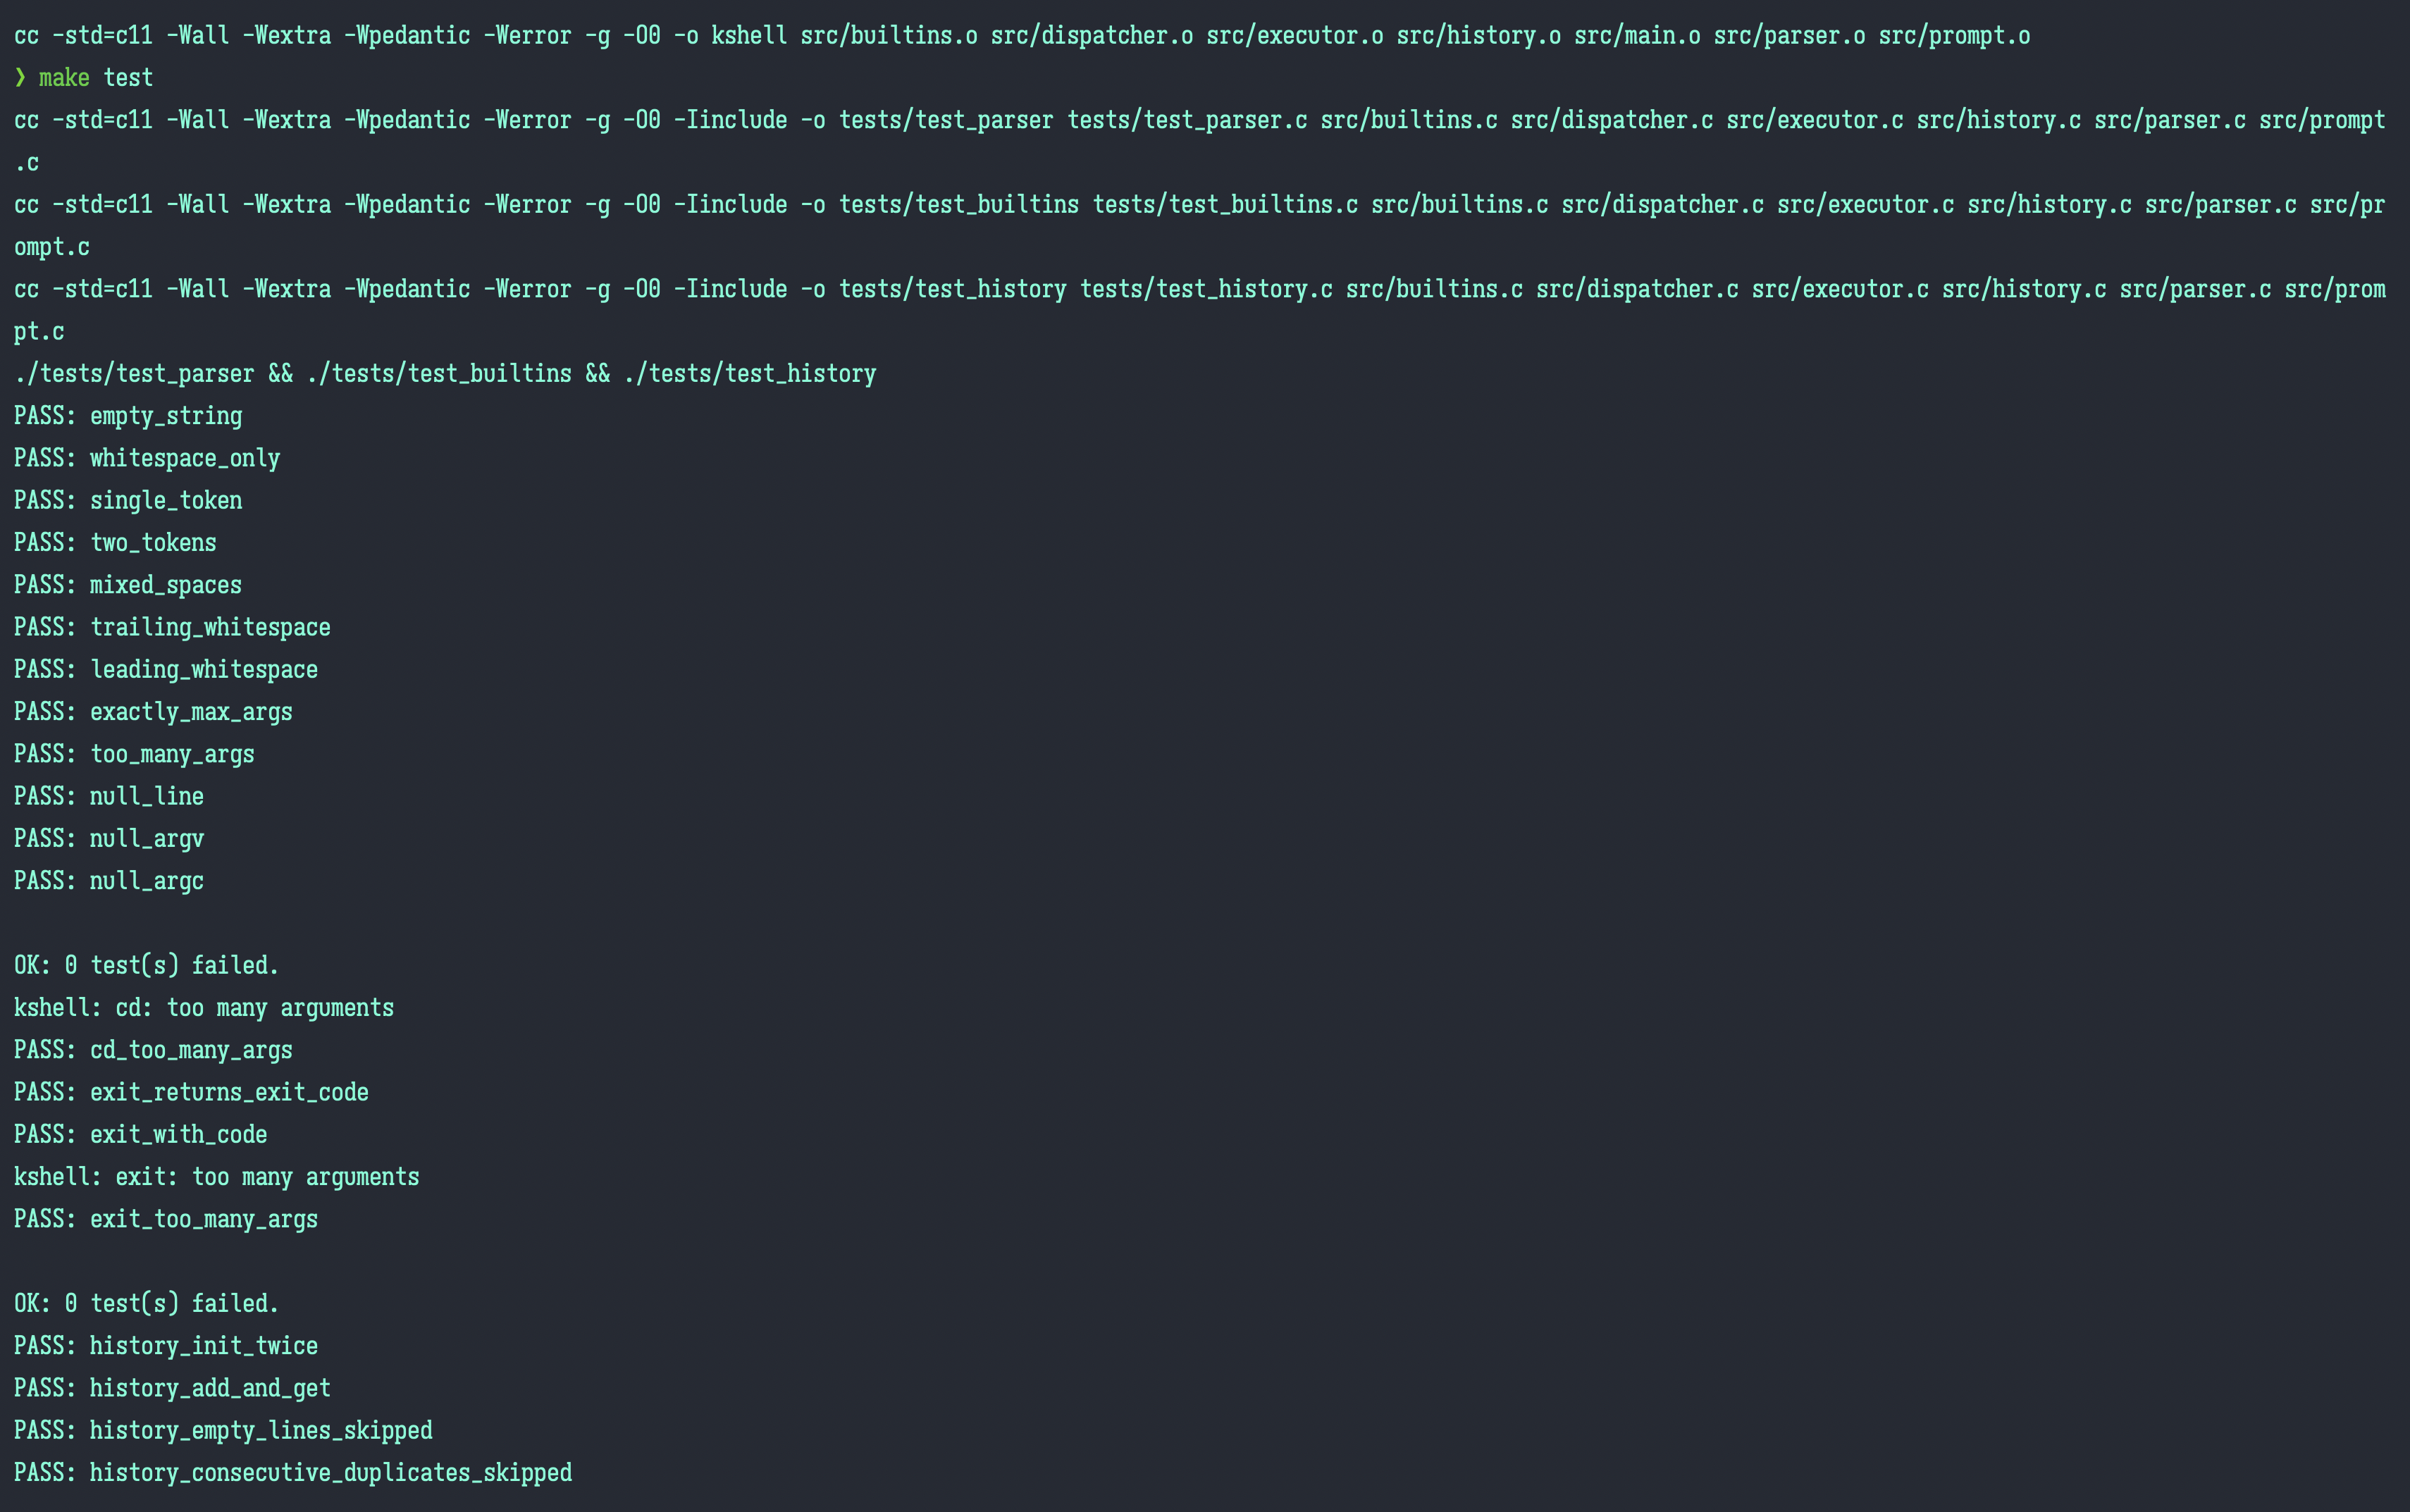
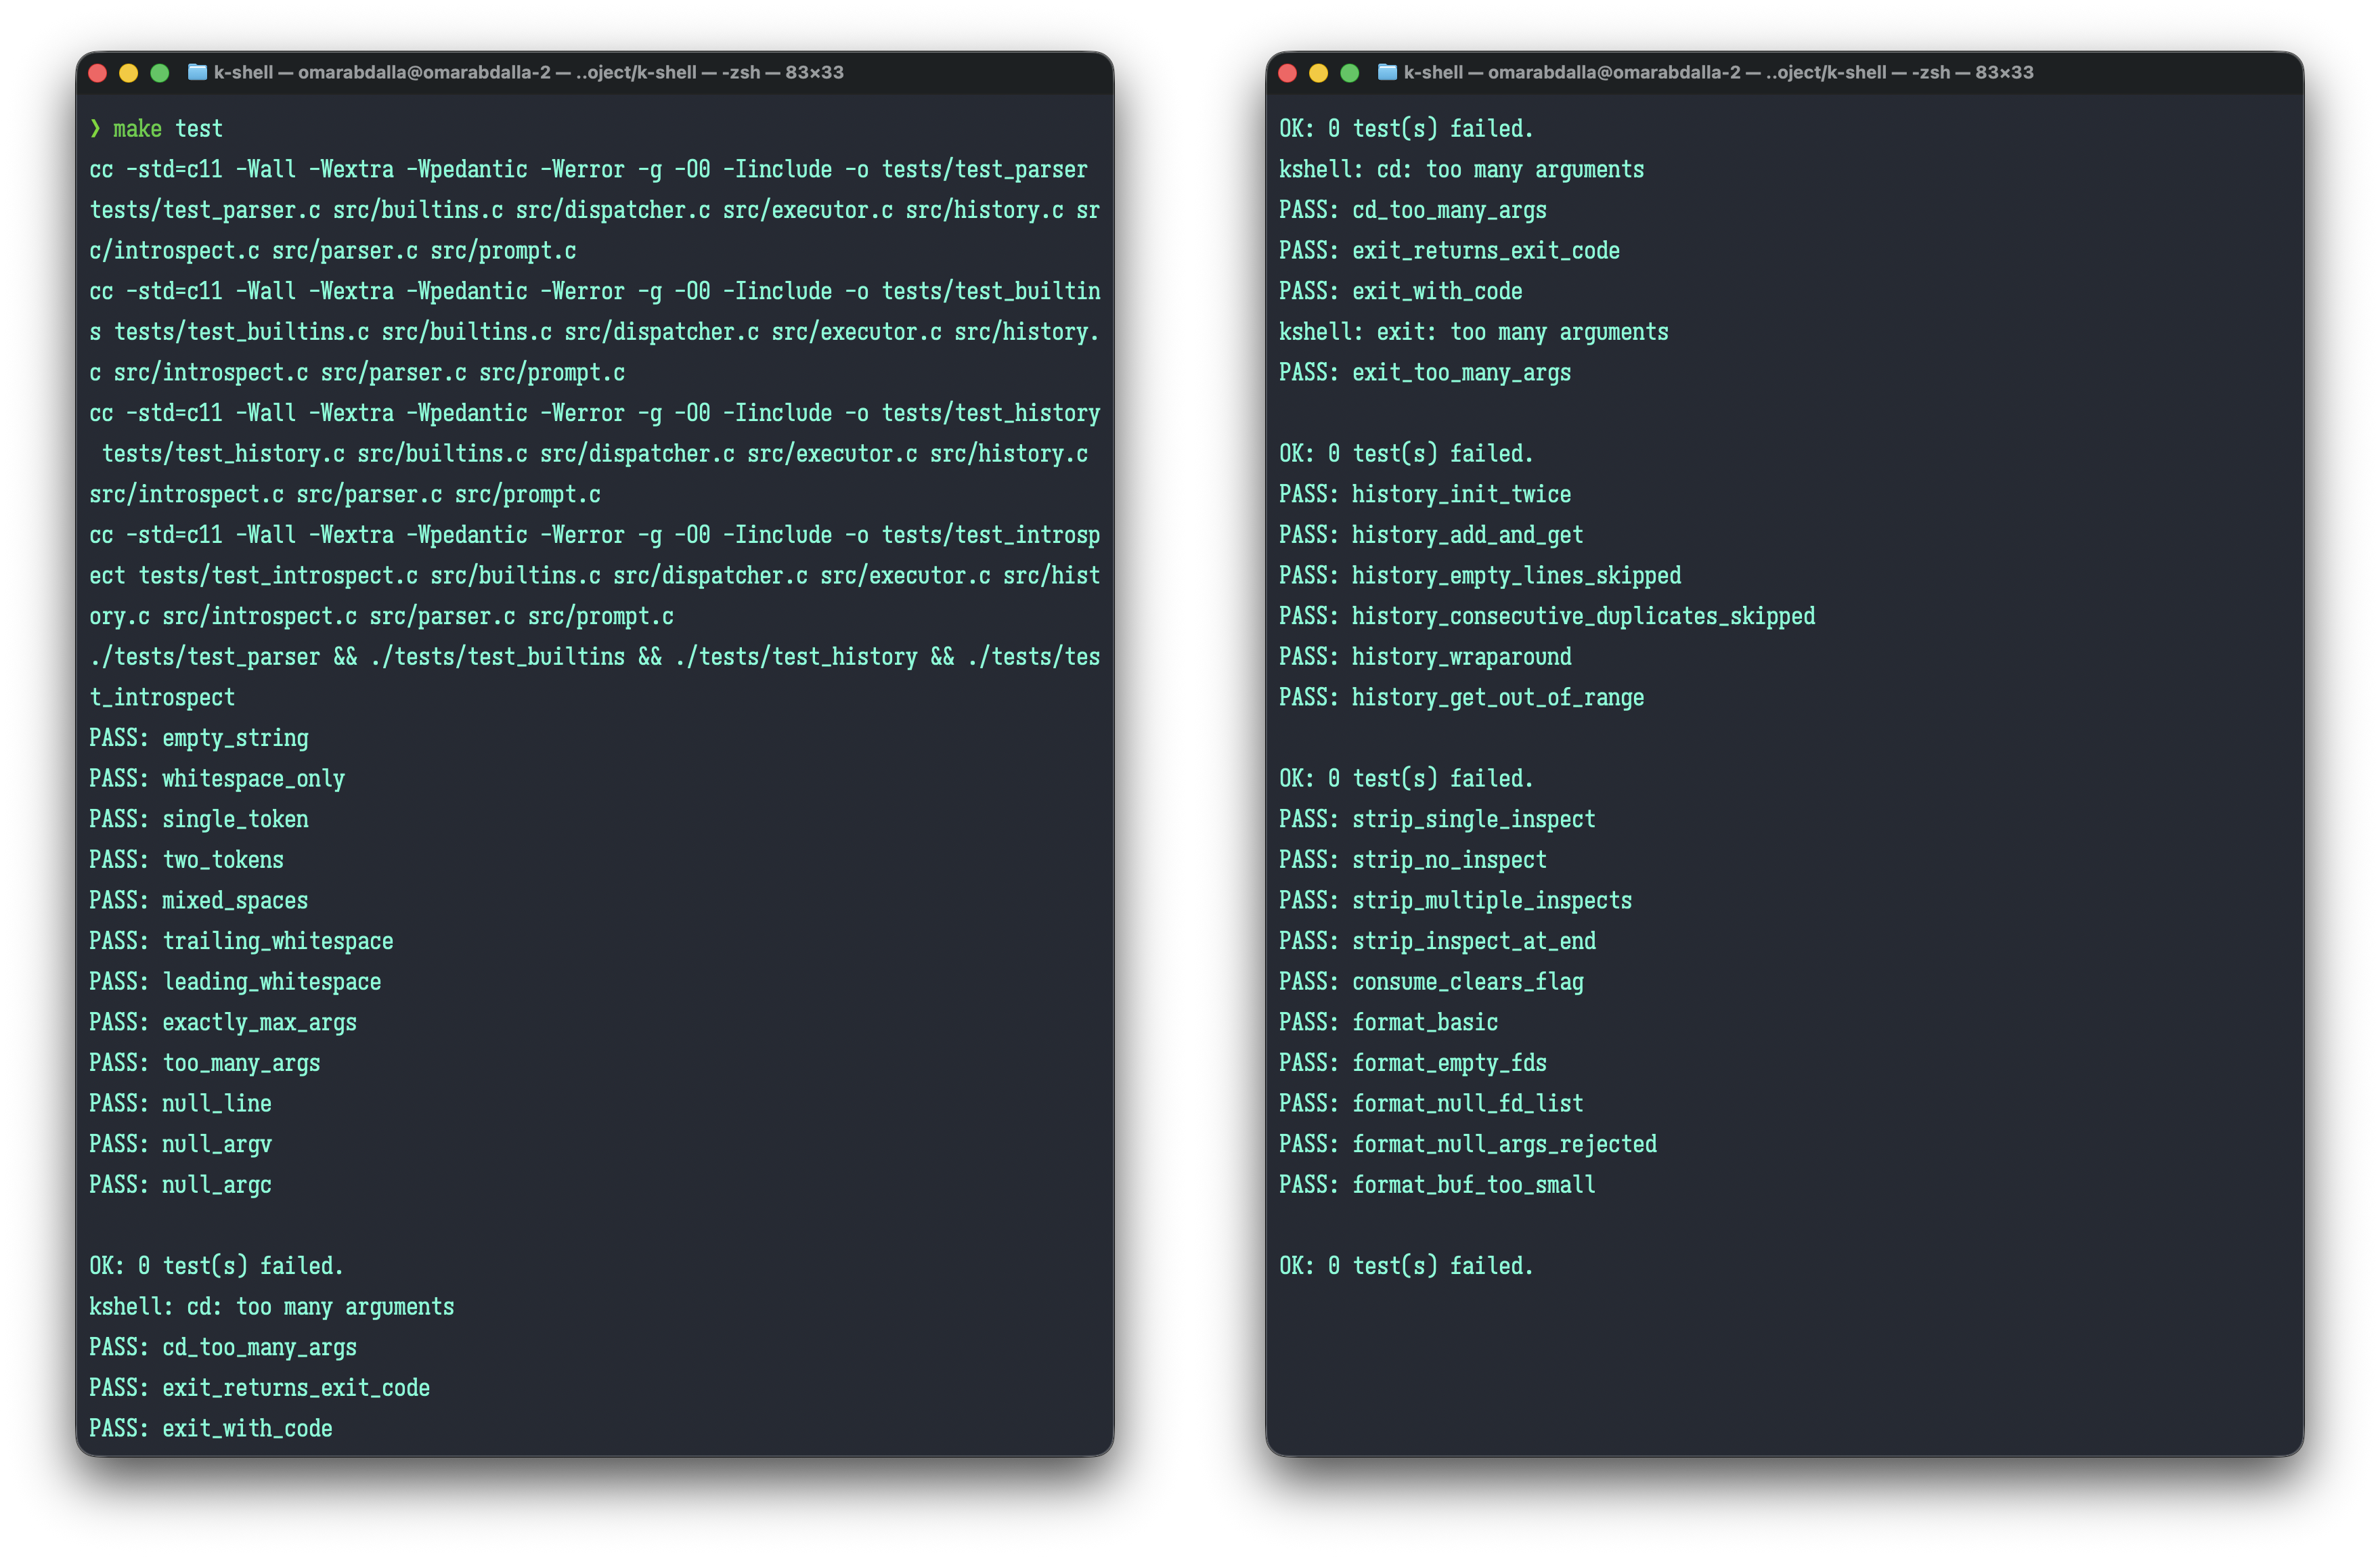
docs(report): factual corrections + recaptured Phase 3 screenshots
- Update LoC numbers to match measured values
- Fix 14 test names in §5.1 to match make test output
- Update clang version to 21.0.0 across toolchain table, §5.2, and §10
- Soften §4.3 novelty claims; remove redundant 'genuinely' hedges
- Disambiguate Phase 1 proposal references
- Recapture build and test screenshots to show Phase 3 sources (introspect)

Changed region(s): [[0.0, 0.0, 1.0, 1.0], [0.8058, 0.1873, 0.9298, 0.2185]]

diff --git a/report/final_report.md b/report/final_report.md
@@ -45,17 +45,17 @@ mainfontoptions: "Numbers=Lining"
 
 # Introduction
 
-K-Shell is a lightweight, POSIX-compliant Unix shell written in C11. It operates as a command-line interpreter between the user and the operating-system kernel: it reads a line of input, tokenizes it, routes the command to an appropriate handler (built-in or external executable), and repeats until the user exits. Beyond meeting every Phase 1 requirement (§1.1--1.4), the final delivery includes an *embedded OS-introspection mode* --- a `--inspect` modifier that turns every external command into a kernel-eye-view report on its own resource usage, file descriptors, and exit disposition. This is the feature that distinguishes K-Shell from a textbook fork/exec implementation, and is the focus of the novelty discussion in §4.3 and the performance analysis in §6.
+K-Shell is a lightweight, POSIX-compliant Unix shell written in C11. It operates as a command-line interpreter between the user and the operating-system kernel: it reads a line of input, tokenizes it, routes the command to an appropriate handler (built-in or external executable), and repeats until the user exits. Beyond meeting every requirement in the Phase 1 proposal §1.1--1.4, the final delivery includes an *embedded OS-introspection mode* --- a `--inspect` modifier that turns every external command into a kernel-eye-view report on its own resource usage, file descriptors, and exit disposition. This is the feature that distinguishes K-Shell from a textbook fork/exec implementation, and is the focus of the novelty discussion in §4.3 and the performance analysis in §6.
 
-The shell supports four built-in commands (`cd`, `exit`, `help`, `history`), external command execution via `fork`/`execvp`/`waitpid`, an in-memory ring-buffer command history, a dynamic prompt showing the current working directory, signal handling that survives Ctrl+C while terminating the foreground child, and the new `--inspect` introspection mode. The complete implementation is 1,170 lines of C11 across eight production source files, plus 367 lines of unit tests covering parser, built-ins, history, and introspection.
+The shell supports four built-in commands (`cd`, `exit`, `help`, `history`), external command execution via `fork`/`execvp`/`waitpid`, an in-memory ring-buffer command history, a dynamic prompt showing the current working directory, signal handling that survives Ctrl+C while terminating the foreground child, and the new `--inspect` introspection mode. The complete implementation is 619 lines of C11 across eight production source files plus 307 lines of public-API headers, with 574 lines of unit tests covering parser, built-ins, history, and introspection.
 
 # Problem Statement and Motivation
 
 A modern operating-systems curriculum spends most of its time on the *concepts* of process creation, scheduling, signal delivery, file descriptors, virtual memory, and IPC --- but a student rarely *touches* any of these directly. The shell is the one program where every undergraduate is forced to confront `fork`, `exec`, `wait`, `signal`, and `errno` simultaneously, in the order the kernel actually delivers them. Building a shell from scratch is therefore the most direct route from the textbook to the syscall.
 
-The problem this project solves is twofold. **First**, build a shell that meets the Phase 1 specification (§1.1--1.4) end-to-end with production-grade engineering: reentrant tokenization, EINTR-safe waiting, async-signal-safe handlers, parameterized lifecycle management, and zero-warning compilation under `-Wall -Wextra -Wpedantic -Werror`. **Second** --- and this is what separates K-Shell from a competent course shell --- *use the shell as a teaching surface*. When a student types `ls --inspect`, they should see, in the same terminal, both `ls`'s output *and* what `ls` cost the kernel: how many microseconds of user CPU, how many page faults, how many context switches, which file descriptors got inherited. The introspection mode collapses the gap between "fork+exec runs a program" and "fork+exec is a kernel transaction with measurable cost."
+The problem this project solves is twofold. **First**, build a shell that meets the Phase 1 proposal §1.1--1.4 end-to-end with production-grade engineering: reentrant tokenization, EINTR-safe waiting, async-signal-safe handlers, parameterized lifecycle management, and zero-warning compilation under `-Wall -Wextra -Wpedantic -Werror`. **Second** --- and this is what separates K-Shell from a competent course shell --- *use the shell as a teaching surface*. When a student types `ls --inspect`, they should see, in the same terminal, both `ls`'s output *and* what `ls` cost the kernel: how many microseconds of user CPU, how many page faults, how many context switches, which file descriptors got inherited. The introspection mode collapses the gap between "fork+exec runs a program" and "fork+exec is a kernel transaction with measurable cost."
 
-The motivation is therefore not just to write a shell; it is to write a shell whose every command is also a small operating-systems lesson. The §4.3 novelty discussion documents what we know is and is not standard in undergraduate course-shell projects, and why we believe `--inspect` is genuinely uncommon at this level.
+The motivation is therefore not just to write a shell; it is to write a shell whose every command is also a small operating-systems lesson. The §4.3 novelty discussion documents what we know is and is not standard in undergraduate course-shell projects, and why we believe `--inspect` is uncommon at this level.
 
 # System Design
 
@@ -114,7 +114,7 @@ Table: Toolchain versions used for the K-Shell Phase 3 final delivery.
 | Component | Tool / Version |
 |---|---|
 | Programming language | C11 (`-std=c11`) |
-| Compiler | Apple clang 17.0.0 (clang-1700.6.4.2) |
+| Compiler | Apple clang 21.0.0 (clang-2100.0.123.102) |
 | Build system | GNU Make 3.81 |
 | Memory checker | AddressSanitizer (`-fsanitize=address`) |
 | Test framework | Hand-rolled (no third-party dependency) |
@@ -150,7 +150,7 @@ The `--inspect` screenshot in §5.2 shows three commands run with `--inspect`: `
 
 ### Why This Is the Novel Contribution
 
-Course shells at the undergraduate level uniformly stop at "fork the child, exec, wait for the exit code, print the prompt." A shell that *instruments* every command --- exposing the per-child rusage, the FD inheritance, and the wall-clock cost in a single operator-readable table --- is genuinely uncommon at this level. The educational payoff is direct: a student running `ls --inspect` sees that `ls` causes ~500 minor page faults on a freshly-exec'd image (the dynamic linker mapping libc + libsystem), that voluntary context switches cluster around 1--4 (it does almost no blocking I/O), and that the FD set is exactly `0 1 2`. None of this is visible in a normal shell session, and we know of no other course-shell deliverable that surfaces it inline.
+Course shells at the undergraduate level typically stop at "fork the child, exec, wait for the exit code, print the prompt." A shell that *instruments* every command --- exposing the per-child rusage, the FD inheritance, and the wall-clock cost in a single operator-readable table --- is uncommon at this level. The educational payoff is direct: a student running `ls --inspect` sees that `ls` causes ~500 minor page faults on a freshly-exec'd image (the dynamic linker mapping libc + libsystem), that voluntary context switches cluster around 1--4 (it does almost no blocking I/O), and that the FD set is exactly `0 1 2`. None of this is visible in a normal shell session, and we are not aware of similar inline instrumentation in the standard course-shell pattern.
 
 ### Failure Mode Handling
 
@@ -166,26 +166,26 @@ Table: Complete unit-test inventory. All tests pass with zero warnings under `-s
 
 | #  | Test                                              | Module        | What it asserts                                          | Result |
 |----|---------------------------------------------------|---------------|----------------------------------------------------------|--------|
-| 1  | parse_simple                               | parser     | Single command tokenizes correctly                               | PASS   |
-| 2  | parse_multiple_args                        | parser     | Multi-token command splits on whitespace                         | PASS   |
-| 3  | parse_empty                                | parser     | Empty input returns argc==0, no error                            | PASS   |
-| 4  | parse_only_whitespace                      | parser     | Whitespace-only input returns argc==0                            | PASS   |
-| 5  | parse_mixed_delimiters                     | parser     | Tabs and spaces both treated as delimiters                       | PASS   |
-| 6  | parse_trailing_whitespace                  | parser     | Trailing whitespace does not introduce empty token               | PASS   |
-| 7  | parse_leading_whitespace                   | parser     | Leading whitespace skipped                                       | PASS   |
-| 8  | parse_exactly_max_args                     | parser     | KS_MAX_ARGS (64) tokens accepted, argv[64]==NULL                 | PASS   |
-| 9  | parse_too_many_args                        | parser     | 65th token returns KS_ERR_TOO_MANY_ARGS                          | PASS   |
-| 10 | parse_null_line                            | parser     | NULL line returns KS_ERR_PARSE                                   | PASS   |
-| 11 | parse_null_argv                            | parser     | NULL argv returns KS_ERR_PARSE                                   | PASS   |
-| 12 | parse_null_argc                            | parser     | NULL argc returns KS_ERR_PARSE                                   | PASS   |
+| 1  | single_token                               | parser     | Single command tokenizes correctly                               | PASS   |
+| 2  | two_tokens                                 | parser     | Multi-token command splits on whitespace                         | PASS   |
+| 3  | empty_string                               | parser     | Empty input returns argc==0, no error                            | PASS   |
+| 4  | whitespace_only                            | parser     | Whitespace-only input returns argc==0                            | PASS   |
+| 5  | mixed_spaces                               | parser     | Tabs and spaces both treated as delimiters                       | PASS   |
+| 6  | trailing_whitespace                        | parser     | Trailing whitespace does not introduce empty token               | PASS   |
+| 7  | leading_whitespace                         | parser     | Leading whitespace skipped                                       | PASS   |
+| 8  | exactly_max_args                           | parser     | KS_MAX_ARGS (64) tokens accepted, argv[64]==NULL                 | PASS   |
+| 9  | too_many_args                              | parser     | 65th token returns KS_ERR_TOO_MANY_ARGS                          | PASS   |
+| 10 | null_line                                  | parser     | NULL line returns KS_ERR_PARSE                                   | PASS   |
+| 11 | null_argv                                  | parser     | NULL argv returns KS_ERR_PARSE                                   | PASS   |
+| 12 | null_argc                                  | parser     | NULL argc returns KS_ERR_PARSE                                   | PASS   |
 | 13 | cd_too_many_args                           | builtins   | `cd a b` returns KS_ERR_BUILTIN                                  | PASS   |
 | 14 | exit_returns_exit_code                     | builtins   | `exit` returns KS_EXIT, code 0                                   | PASS   |
 | 15 | exit_with_code                             | builtins   | `exit 42` returns KS_EXIT, code 42                               | PASS   |
 | 16 | exit_too_many_args                         | builtins   | `exit 1 2` returns KS_ERR_BUILTIN, not KS_EXIT                   | PASS   |
 | 17 | history_init_twice                         | history    | Double init without free returns KS_ERR_HISTORY                  | PASS   |
 | 18 | history_add_and_get                        | history    | Round-trip stores and retrieves entries in insertion order       | PASS   |
-| 19 | history_empty_skipped                      | history    | Blank lines silently rejected                                    | PASS   |
-| 20 | history_consec_dup_skipped                 | history    | Repeated identical command suppressed                            | PASS   |
+| 19 | history_empty_lines_skipped                | history    | Blank lines silently rejected                                    | PASS   |
+| 20 | history_consecutive_duplicates_skipped     | history    | Repeated identical command suppressed                            | PASS   |
 | 21 | history_wraparound                         | history    | Capacity-3 buffer wraps cleanly on 5th add                       | PASS   |
 | 22 | history_get_out_of_range                   | history    | Index $\geq$ count returns NULL                                  | PASS   |
 | 23 | strip_single_inspect                       | introspect | `ls --inspect /tmp` strips one token, sets flag                  | PASS   |
@@ -201,7 +201,7 @@ Table: Complete unit-test inventory. All tests pass with zero warnings under `-s
 
 ## Output Demonstrations
 
-The screenshots below demonstrate the system end-to-end. All were captured on the development machine (macOS 26.3, Apple Silicon, Apple clang 17).
+The screenshots below demonstrate the system end-to-end. All were captured on the development machine (macOS 26.3, Apple Silicon, Apple clang 21).
 
 ![`make clean && make` completes with zero warnings and zero errors under `-std=c11 -Wall -Wextra -Wpedantic -Werror -g -O0`. All eight source files compile and link to produce `./kshell`.](screenshots/01_build_clean.png)
 
@@ -323,7 +323,7 @@ make bench      # build and run the fork+exec benchmark
 make clean      # remove all build artifacts
 ```
 
-Requires a C11 compiler (`cc`) and a POSIX environment. Tested on macOS 26.3 (Apple Silicon, Apple clang 17) and expected to build on Linux without modification.
+Requires a C11 compiler (`cc`) and a POSIX environment. Tested on macOS 26.3 (Apple Silicon, Apple clang 21) and expected to build on Linux without modification.
 
 ```
 ./kshell                      # interactive shell